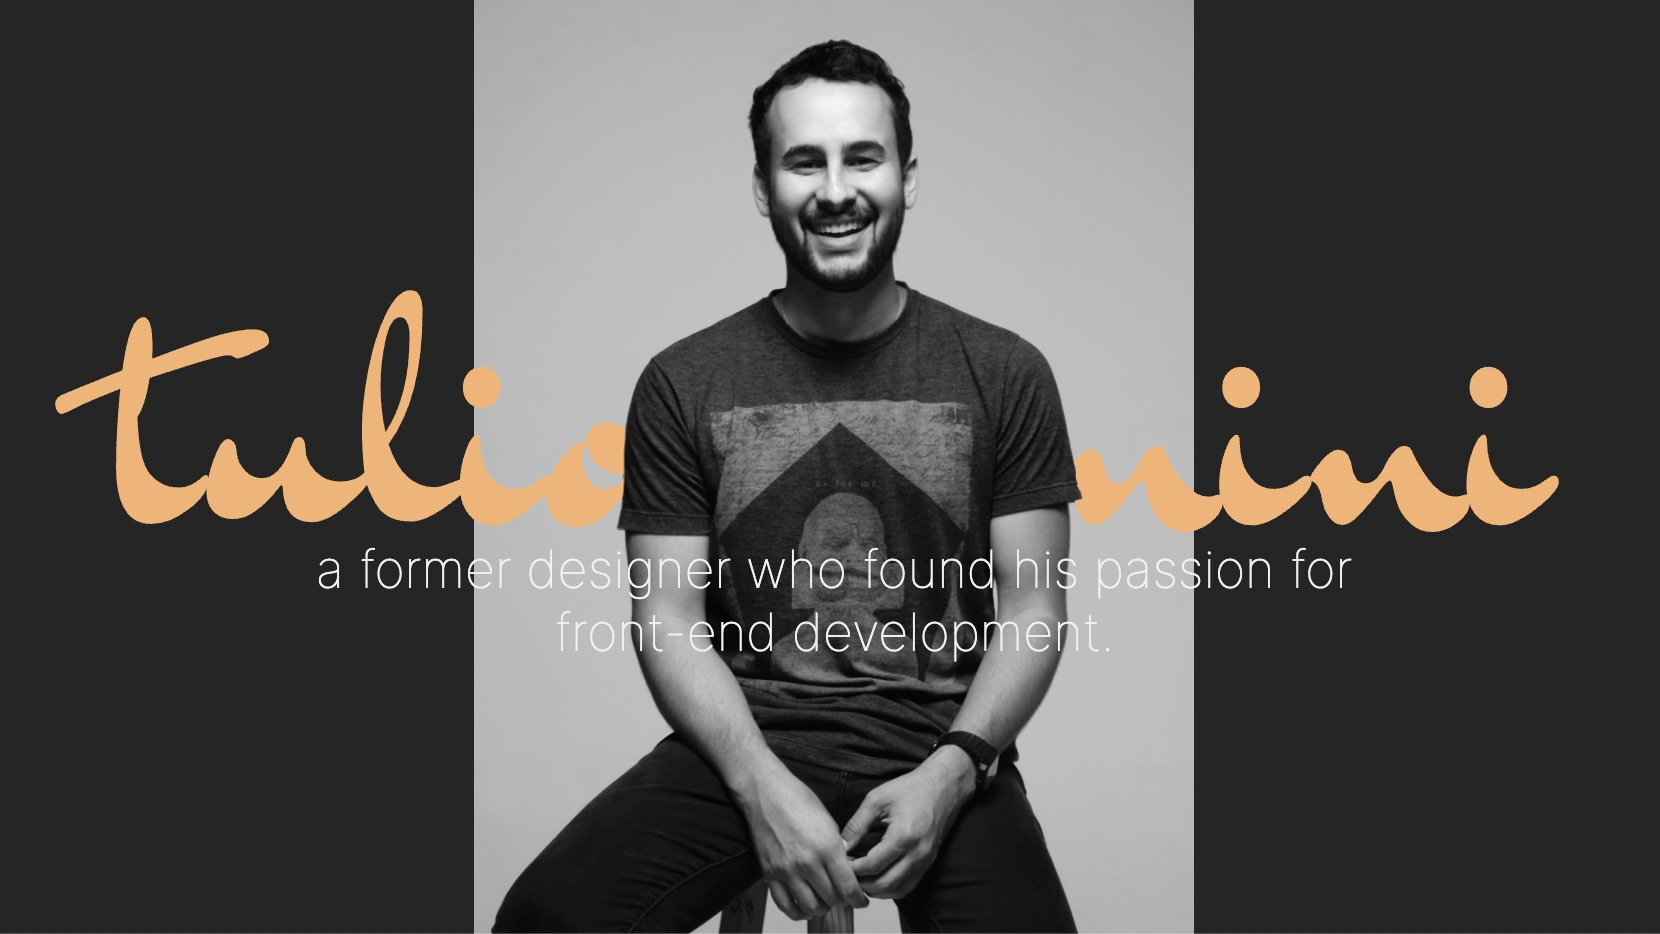
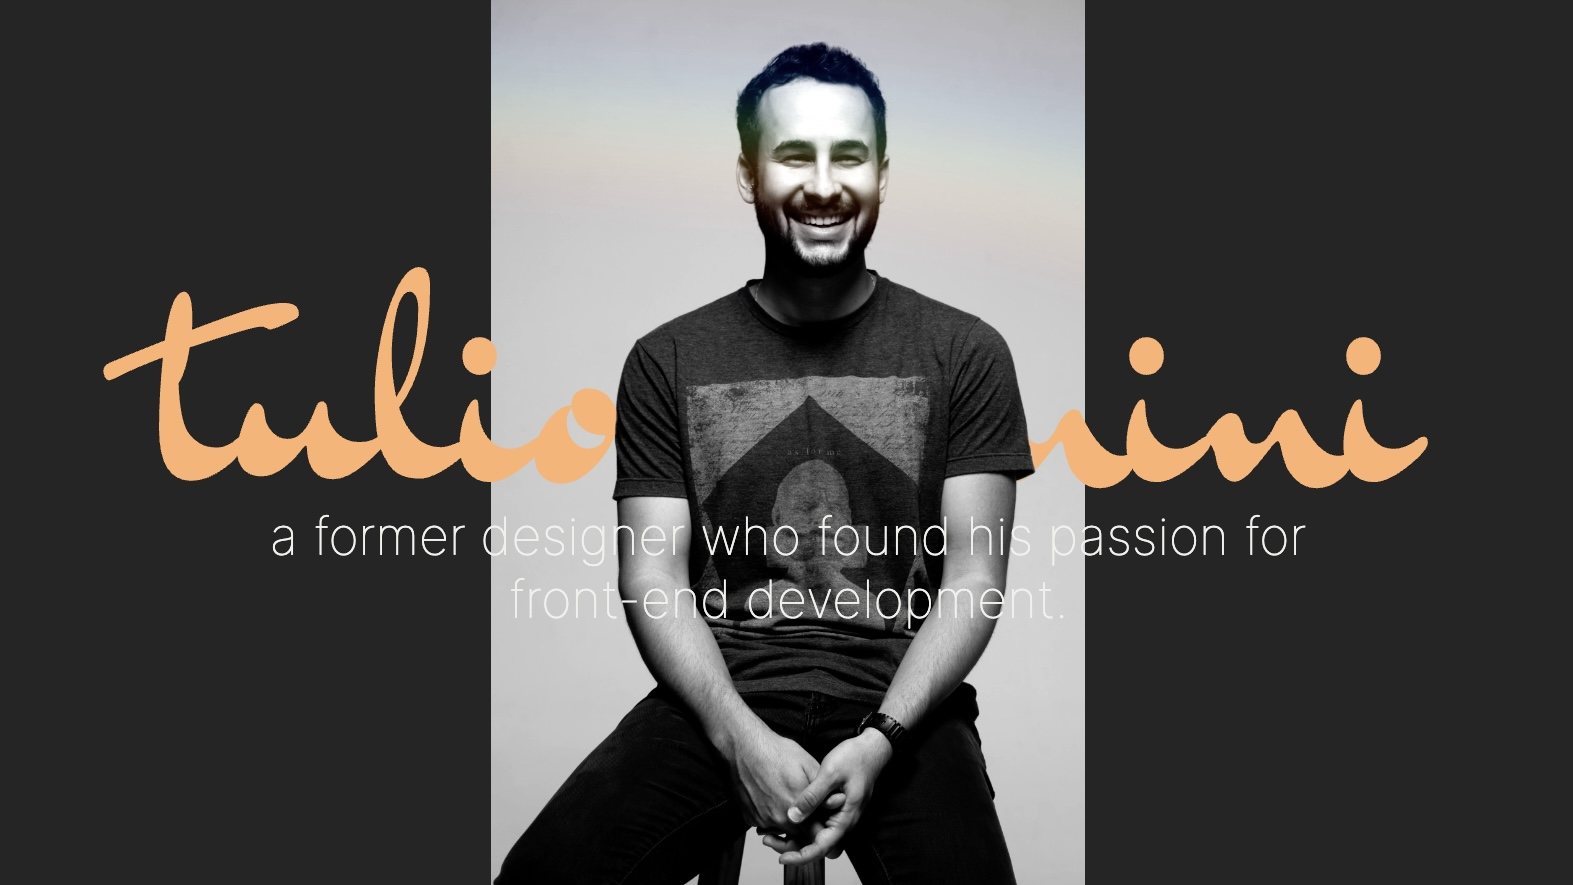
changing hero image

Changed region(s): [[0.0312, 0.0, 0.9345, 1.0], [0.623, 0.9763, 0.6542, 1.0], [0.5919, 0.3356, 0.623, 0.3661]]

diff --git a/src/components/hero/Hero.jsx b/src/components/hero/Hero.jsx
@@ -1,7 +1,7 @@
 import style from './Hero.module.css';
 import { useRef, useState } from 'react';
-import imgBack from './../../assets/images/hero-back.png';
-import imgFront from './../../assets/images/hero-front.png';
+import imgBack from './../../assets/images/back.jpg';
+import imgFront from './../../assets/images/front.png';
 import { motion, useScroll, useTransform } from 'framer-motion';
 
 export function Hero() {
